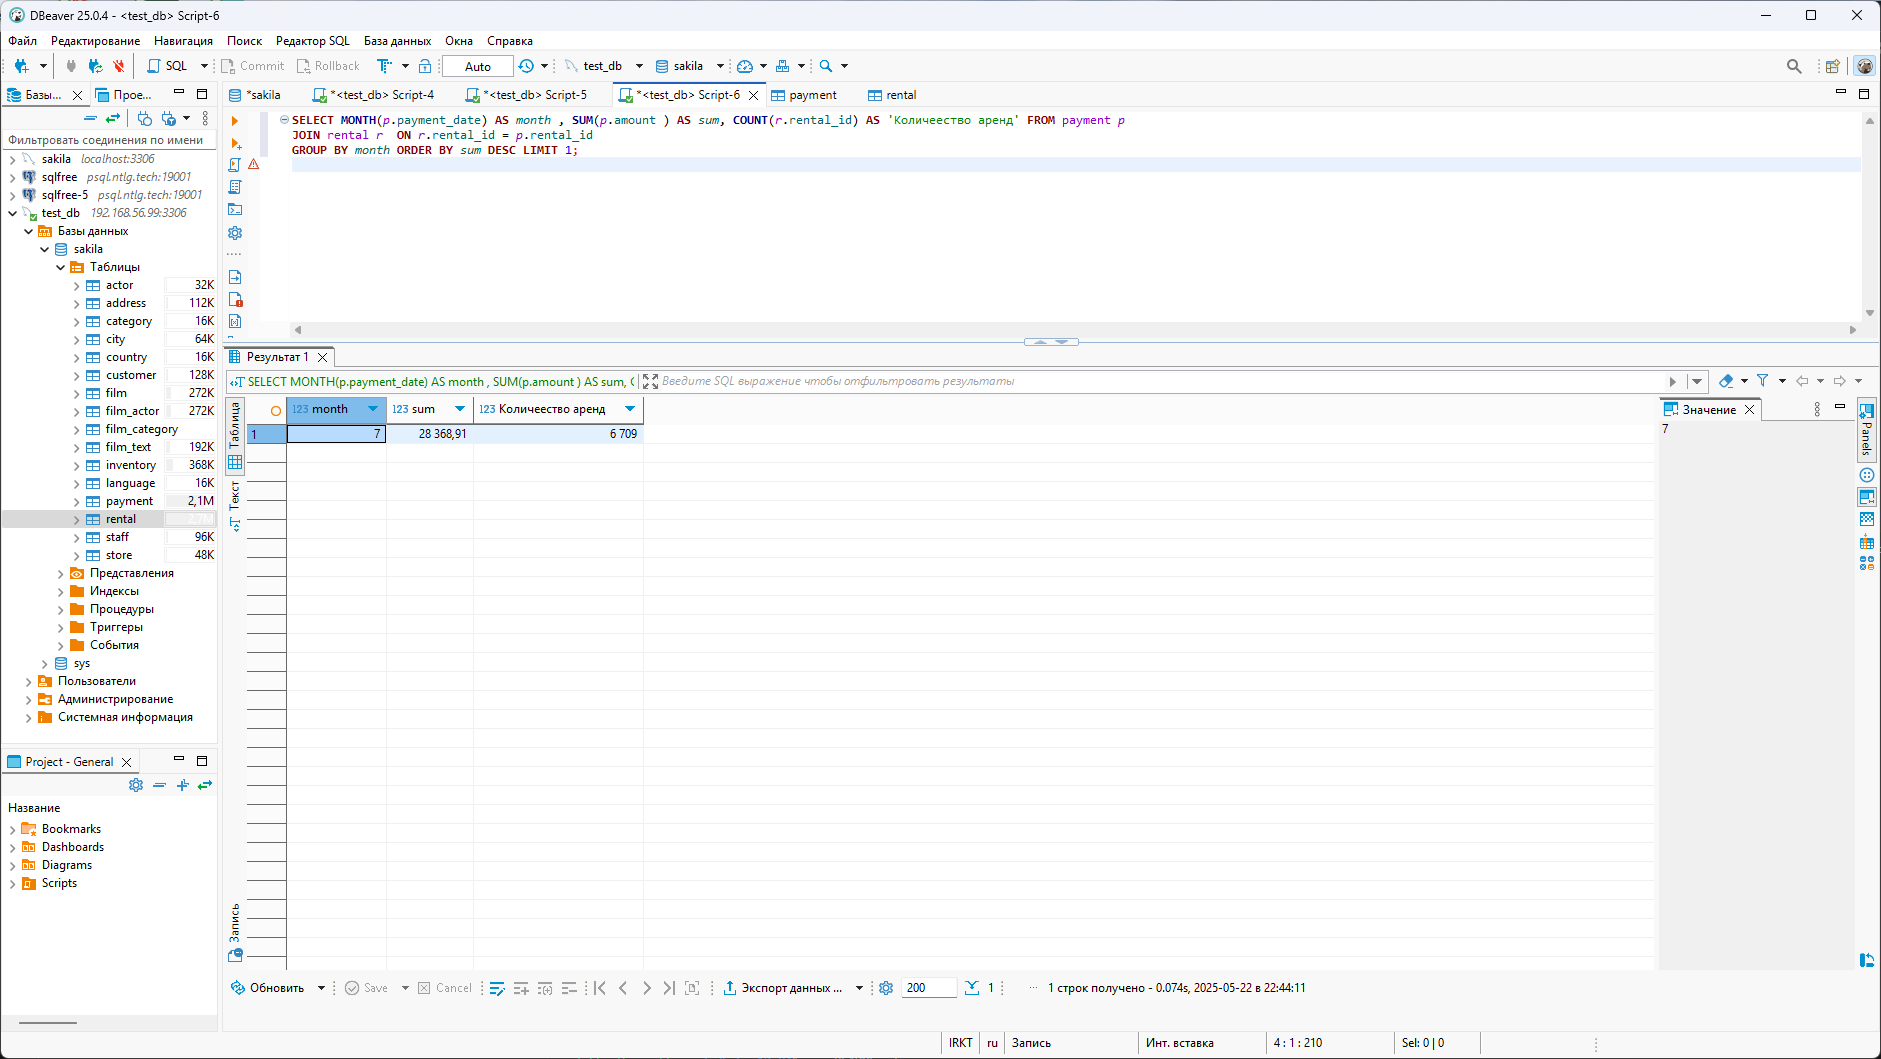
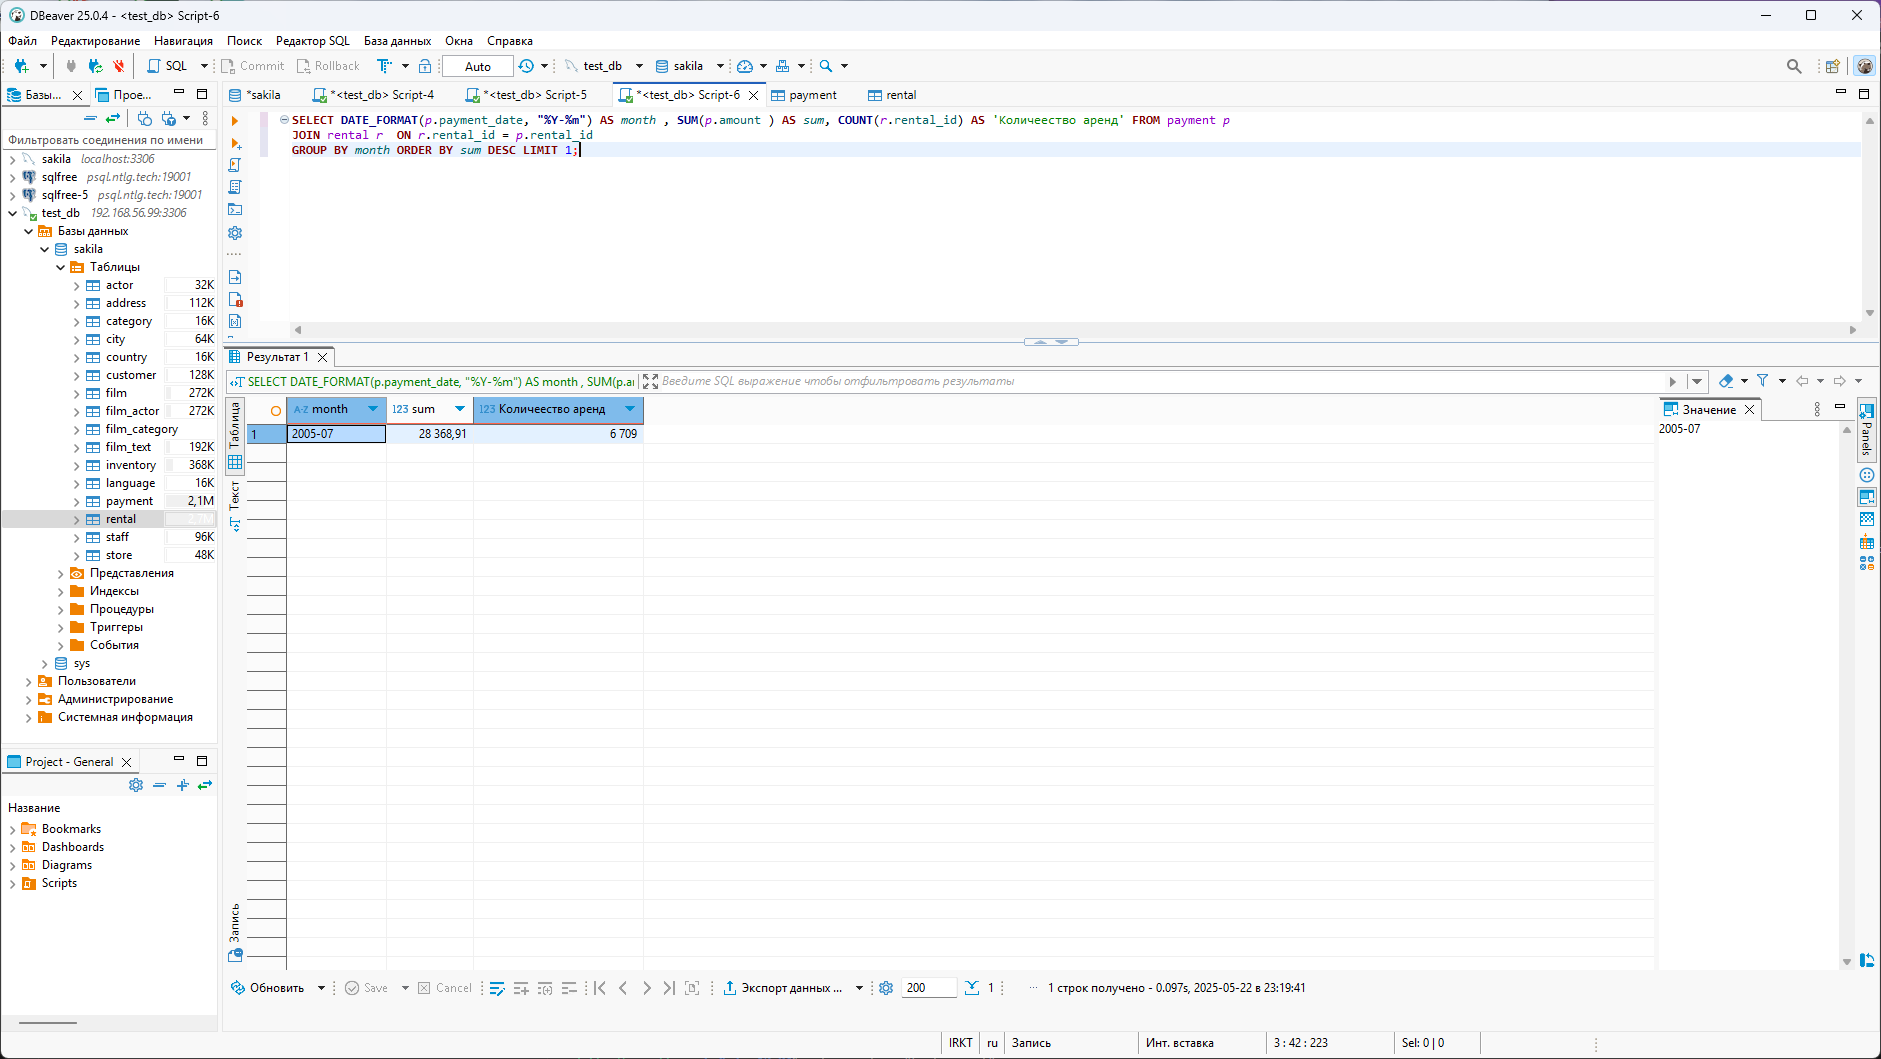
Correct task 3

diff --git a/README.md b/README.md
@@ -35,7 +35,7 @@ SELECT COUNT(1) AS 'Количество' FROM film f WHERE f.`length` > (SELECT
 ### Решение 3
 
 ````SQL
-SELECT MONTH(p.payment_date) AS month , SUM(p.amount ) AS sum, COUNT(r.rental_id) AS 'Количеество аренд' FROM payment p 
+SELECT DATE_FORMAT(p.payment_date, "%Y-%m") AS month , SUM(p.amount ) AS sum, COUNT(r.rental_id) AS 'Количеество аренд' FROM payment p 
 JOIN rental r  ON r.rental_id = p.rental_id
 GROUP BY month ORDER BY sum DESC LIMIT 1;
 ````
